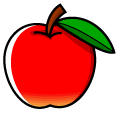
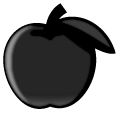
added gameboy theme to snake

diff --git a/snake/snake.css b/snake/snake.css
@@ -1,7 +1,7 @@
 ul {
   list-style: none;
-  margin: 0 auto;
-  background-color: white;
+  margin: 84px auto;
+  /*background-color: #e4ad69;*/
   display: inline-block;
   clear: both;
   padding: 0;
@@ -16,16 +16,20 @@ li {
 
 body {
   overflow: hidden;
-  background-color: grey;
+  background: url("./gameboy.png");
+  background-position: center top;
+  background-repeat: no-repeat;
+  background-origin: border-box;
   color: white;
   text-align: center;
 }
 
 div {
-  margin: 1px;
-  width: 1em;
-  height: 1em;
+  margin: 1px 1px;
+  width: 16.6px;
+  height: 15px;
   float: left;
+  opacity: .7;
 }
 
 div.S, div.H {
@@ -35,4 +39,5 @@ div.S, div.H {
 div.A {
   background-image: url("./apple.png");
   background-size: contain;
+  opacity: .7;
 }
